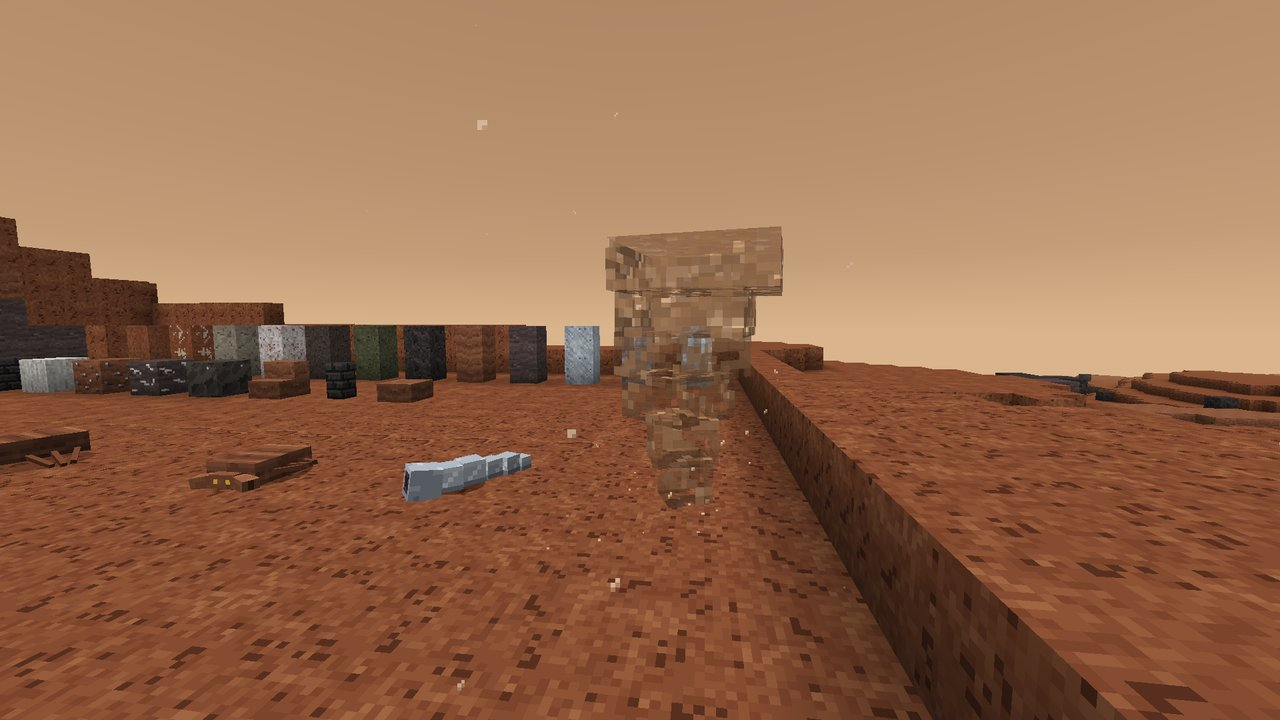
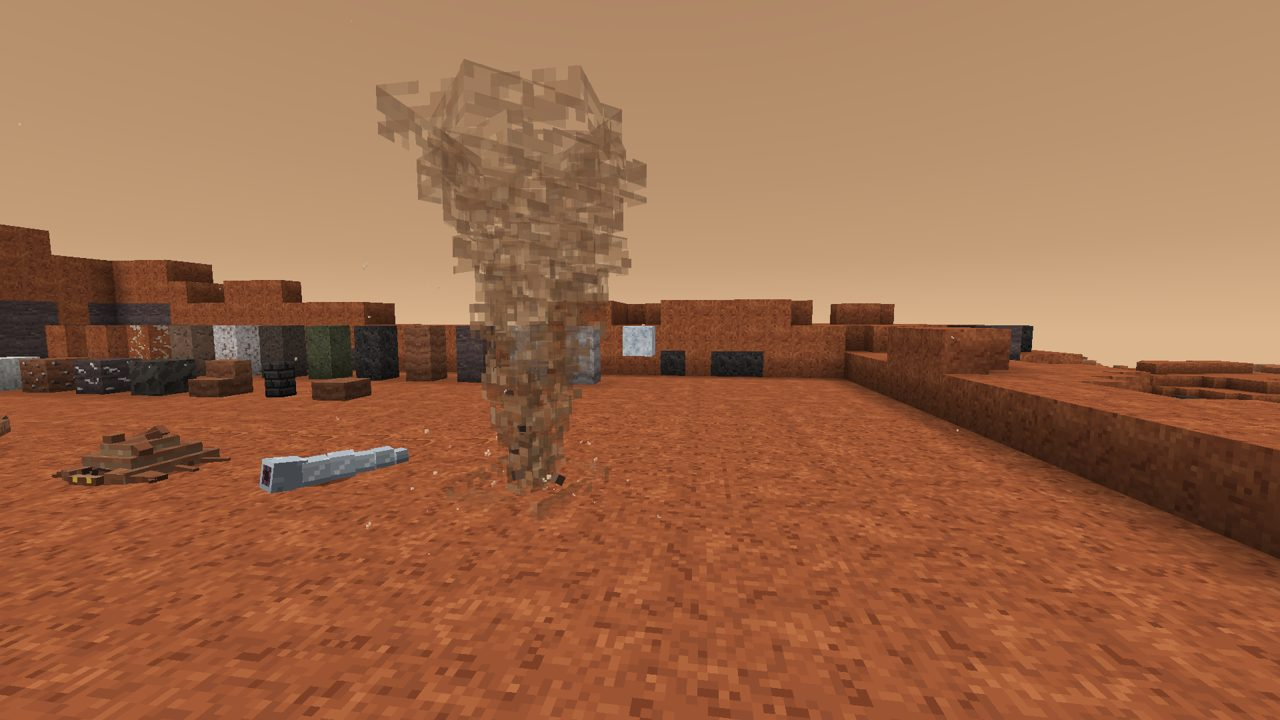
Dust Devil: hollow eight-sided dust curtains, core, skirt and pebbles
Eleven thin rings, each with a second one turned 45 degrees, built from side faces only so no flat lids show; dense and narrow at the foot, wide and thin at the top, swaying more the higher they go. A denser core spins up the lower half, a low dust skirt drags on the ground and pebbles whirl round the base. The Mars showcase stage is cleared wider so the whirl is not framed by a terrain wall.

diff --git a/src/main/java/com/pizzaparker07/spacebreaker/client/mars/DustDevilModel.java b/src/main/java/com/pizzaparker07/spacebreaker/client/mars/DustDevilModel.java
@@ -10,31 +10,65 @@ import net.minecraft.client.model.geom.builders.CubeListBuilder;
 import net.minecraft.client.model.geom.builders.LayerDefinition;
 import net.minecraft.client.model.geom.builders.MeshDefinition;
 import net.minecraft.client.model.geom.builders.PartDefinition;
+import net.minecraft.core.Direction;
 import net.minecraft.util.Mth;
 
-/** Dust Devil: a funnel of translucent dust rings, each spinning at its own speed and swaying, widest at the top. */
+import java.util.EnumSet;
+import java.util.Set;
+
+/**
+ * Dust Devil: a funnel of hollow, translucent dust curtains (eight-sided: each ring carries a second one turned 45
+ * degrees), narrow and dense at the foot, wide and thin at the top, each ring spinning at its own speed and the column
+ * swaying more the higher it goes. A denser core runs up the lower half, a low skirt of dust drags on the ground and a
+ * few pebbles whirl around the base. Only the side faces are built, so no flat lids show. UVs: mars_creatures.py.
+ */
 public class DustDevilModel extends HierarchicalModel<DustDevil> {
     public static final ModelLayerLocation LAYER = new ModelLayerLocation(Spacebreaker.id("dust_devil"), "main");
-    private static final int[] WIDTH = {5, 7, 9, 11, 13, 16};
+    private static final int TIERS = 11;
+    private static final float STEP = 3.6F;
+    private static final Set<Direction> SIDES = EnumSet.of(Direction.NORTH, Direction.SOUTH, Direction.EAST, Direction.WEST);
+    private static final float[][] PEBBLES = {{6F, -2F}, {-5.5F, -5F}, {1F, -8F}, {-2F, -3.5F}, {4F, -11F}};
     private final ModelPart root;
-    private final ModelPart[] tiers = new ModelPart[WIDTH.length];
+    private final ModelPart[] tiers = new ModelPart[TIERS];
+    private final ModelPart core;
+    private final ModelPart skirt;
+    private final ModelPart debris;
 
     public DustDevilModel(ModelPart root) {
         this.root = root;
-        for (int i = 0; i < WIDTH.length; i++) {
+        for (int i = 0; i < TIERS; i++) {
             tiers[i] = root.getChild("tier" + i);
         }
+        core = root.getChild("core");
+        skirt = root.getChild("skirt");
+        debris = root.getChild("debris");
+    }
+
+    static float width(int i) {
+        return 4F + i * 1.4F;
     }
 
     public static LayerDefinition createLayer() {
         MeshDefinition mesh = new MeshDefinition();
         PartDefinition root = mesh.getRoot();
-        for (int i = 0; i < WIDTH.length; i++) {
-            float w = WIDTH[i];
-            root.addOrReplaceChild("tier" + i, CubeListBuilder.create().texOffs(0, (i % 3) * 21).addBox(-w / 2, -5F, -w / 2, w, 5F, w),
-                    PartPose.offset(0F, 24F - i * 4.6F, 0F));
+        for (int i = 0; i < TIERS; i++) {
+            float w = width(i);
+            float w2 = w * 0.82F;
+            // texture rows fade from dense to thin downward, and a wider ring samples lower rows: the funnel thins upward
+            PartDefinition t = root.addOrReplaceChild("tier" + i, CubeListBuilder.create().texOffs(i * 5 % 40, 0).addBox(-w / 2, -4F, -w / 2, w, 4F, w, SIDES),
+                    PartPose.offset(0F, 24F - i * STEP, 0F));
+            t.addOrReplaceChild("turned", CubeListBuilder.create().texOffs(i * 7 % 40 + 3, 0).addBox(-w2 / 2, -4F, -w2 / 2, w2, 4F, w2, SIDES),
+                    PartPose.offsetAndRotation(0F, -0.5F, 0F, 0F, Mth.PI / 4F, 0F));
         }
-        return LayerDefinition.create(mesh, 64, 64);
+        root.addOrReplaceChild("core", CubeListBuilder.create().texOffs(64, 48).addBox(-1F, -14F, -1F, 2F, 14F, 2F, SIDES), PartPose.offset(0F, 24F, 0F));
+        root.addOrReplaceChild("skirt", CubeListBuilder.create().texOffs(0, 32).addBox(-7F, -2F, -7F, 14F, 2F, 14F, SIDES), PartPose.offset(0F, 24F, 0F));
+        PartDefinition debris = root.addOrReplaceChild("debris", CubeListBuilder.create(), PartPose.offset(0F, 24F, 0F));
+        for (int i = 0; i < PEBBLES.length; i++) {
+            float a = i * 2.4F;
+            debris.addOrReplaceChild("pebble" + i, CubeListBuilder.create().texOffs(100 + (i % 3) * 4, 40).addBox(-0.5F, -0.5F, -0.5F, 1F, 1F, 1F),
+                    PartPose.offsetAndRotation(Mth.cos(a) * PEBBLES[i][0], PEBBLES[i][1], Mth.sin(a) * PEBBLES[i][0], a, a * 0.7F, 0F));
+        }
+        return LayerDefinition.create(mesh, 128, 64);
     }
 
     @Override
@@ -44,11 +78,21 @@ public class DustDevilModel extends HierarchicalModel<DustDevil> {
 
     @Override
     public void setupAnim(DustDevil devil, float limbSwing, float limbSwingAmount, float ageInTicks, float netHeadYaw, float headPitch) {
-        for (int i = 0; i < tiers.length; i++) {
-            tiers[i].yRot = ageInTicks * (0.55F - i * 0.05F) * (i % 2 == 0 ? 1 : 1.15F);
-            float sway = i * 0.45F;
-            tiers[i].x = Mth.sin(ageInTicks * 0.13F + i * 0.7F) * sway;
-            tiers[i].z = Mth.cos(ageInTicks * 0.11F + i * 0.9F) * sway;
+        for (int i = 0; i < TIERS; i++) {
+            tiers[i].yRot = ageInTicks * (0.6F - i * 0.035F) * (i % 2 == 0 ? 1F : 1.12F);
+            float sway = i * i * 0.05F;
+            tiers[i].x = Mth.sin(ageInTicks * 0.13F + i * 0.35F) * sway;
+            tiers[i].z = Mth.cos(ageInTicks * 0.11F + i * 0.45F) * sway;
+        }
+        core.yRot = -ageInTicks * 0.8F;
+        skirt.yRot = ageInTicks * 0.35F;
+        float pulse = 1F + Mth.sin(ageInTicks * 0.2F) * 0.08F;
+        skirt.xScale = skirt.zScale = pulse;
+        debris.yRot = ageInTicks * 0.7F;
+        for (int i = 0; i < PEBBLES.length; i++) {
+            ModelPart p = debris.getChild("pebble" + i);
+            p.y = PEBBLES[i][1] + Mth.sin(ageInTicks * 0.3F + i * 1.7F) * 1.5F;
+            p.xRot = ageInTicks * (0.3F + i * 0.05F);
         }
     }
 }

diff --git a/tools/textures/modules/mars_creatures.py b/tools/textures/modules/mars_creatures.py
@@ -15,6 +15,7 @@ LURKER_BELLY = ramp('#2e2220', '#3d2e2a', '#4c3a35')
 EYE = ramp('#6a3c0c', '#c47a1c', '#f5c040', '#fff0b0')
 WORM = ramp('#5e6772', '#7a8591', '#98a2ad', '#b4bdc6', '#ced5db', '#e6eaee')
 MAW = ramp('#2a1c20', '#45303a', '#6a4a56')
+ROCKS = ramp('#3d2a22', '#5a3e30', '#7a5a46', '#2e2624')
 DUST = ramp('#6b4630', '#8a5c3e', '#a8744e', '#c08c62', '#d4a57c')
 
 
@@ -271,24 +272,41 @@ def worm():
 
 
 def dust_devil():
-    """Dust Devil: translucent swirling dust, streaks slanted by the spin, denser at the core."""
-    cv = Canvas(64, 64)
+    """Dust Devil: translucent dust streaked on a slant by the spin. Rows 0-24 feed the funnel rings and fade from
+    dense (the narrow foot samples the upper rows) to thin (the wide top samples the lower ones); rows 32-47 are the
+    faint ground skirt, rows 48-63 the dense core; a few opaque pebbles sit at (100, 40)."""
+    cv = Canvas(128, 64)
     rng = random.Random(81)
     n = clustered(64, 64, 82, passes=1)
+
+    def streak_px(x, y, density):
+        k = (x + y * 3 + int(n[y % 64][x % 64] * 7)) % 11
+        if k in (0, 1):
+            c, a = DUST[3], 215
+        elif k in (2, 3, 4):
+            c, a = DUST[2], 160
+        elif k == 6:
+            c, a = DUST[1], 120
+        else:
+            c, a = DUST[0], 0 if n[y % 64][x % 64] < 0.5 else 60
+        if rng.random() < 0.03:
+            c, a = DUST[4], 235
+        return (c[0], c[1], c[2], int(a * density))
+
     for y in range(64):
-        for x in range(64):
-            streak = (x + y * 2 + int(n[y][x] * 6)) % 9
-            if streak in (0, 1):
-                c, a = DUST[3], 210
-            elif streak in (2, 3):
-                c, a = DUST[2], 150
-            elif streak == 5:
-                c, a = DUST[1], 110
+        for x in range(128):
+            if y < 32:
+                density = max(0.55, 1.05 - max(0, y - 3) * 0.028)
+            elif y < 48:
+                density = 0.45
             else:
-                c, a = DUST[0], 0 if n[y][x] < 0.45 else 70
-            if rng.random() < 0.04:
-                c, a = DUST[4], 230
-            cv[x, y] = (c[0], c[1], c[2], a)
+                density = 1.15
+            px = streak_px(x, y, density)
+            cv[x, y] = (px[0], px[1], px[2], min(255, px[3]))
+    for x in range(100, 112):
+        for y in range(40, 42):
+            c = ROCKS[(x * 7 + y * 3) % len(ROCKS)]
+            cv[x, y] = (c[0], c[1], c[2], 255)
     return cv
 
 

diff --git a/src/testmod/java/com/pizzaparker07/spacebreaker/testmod/showcase/MarsScenario.java b/src/testmod/java/com/pizzaparker07/spacebreaker/testmod/showcase/MarsScenario.java
@@ -195,9 +195,9 @@ final class MarsScenario implements ShowcaseScenario {
 
     private void buildStage(ServerLevel level) {
         int y0 = (int) Math.floor(terrain.height(STAGE_X, STAGE_Z));
-        for (int x = STAGE_X - 13; x <= STAGE_X + 13; x++) {
+        for (int x = STAGE_X - 13; x <= STAGE_X + 19; x++) {
             for (int z = STAGE_Z - 6; z <= STAGE_Z + 16; z++) {
-                for (int y = y0 - 3; y <= y0 + 12; y++) {
+                for (int y = y0 - 3; y <= y0 + 20; y++) {
                     BlockState s = y < y0 ? MarsModule.MARTIAN_SANDSTONE.base().get().defaultBlockState()
                             : y == y0 ? MarsModule.MARTIAN_REGOLITH.get().defaultBlockState() : Blocks.AIR.defaultBlockState();
                     level.setBlock(new BlockPos(x, y, z), s, Block.UPDATE_CLIENTS);

diff --git a/docs/CONTENT.md b/docs/CONTENT.md
@@ -390,7 +390,7 @@ Her içerik paketi gerçek istemcide vitrin dünyasında fotoğraflanır; onayda
 | Gök cismi | Yaratıklar |
 |---|---|
 | Ay 🎨 | Regolit Kenesi (tozun altına saklanır, düşük yerçekiminde sıçrar), Yaşlı Regolit Kenesi (lav tüpü muhafızı), Toz Yüzücüsü (regolitin hemen altında süzülen pasif canlı, arkasında toz dalgaları), Keşif Dronu (karakol muhafızı, sersemletme atışı), Parıltı Böceği (pasif, ışıyan; fırçayla Parıltı Kabuğu verir → elektriksiz Parıltı Lambası, Ay gecesi için), Isı Emici (yalnız Ay gecesinde çıkar, lamba ışığında doğmaz; dokunuşu dondurur, akü ve jeneratörlerden enerji emip parlar, gün doğunca süblimleşir; ölünce emdiği enerji kızıltaşa döner) |
-| Mars 🎨 | Pas Böceği (demir oksit yer, tarafsız), Toz Şeytanı (fırtınalarda canlı hortum), Kanyon Pusucusu (kanyon duvarı gibi pas, devetüyü ve koyu damarlarla katmanlanmış basamaklı kabuk, tepede kaya yumruları; iki çeneli kısa baş ve kehribar gözler; eklemli kollarda iki parmaklı kıskaçlar; dizden yükseğe kıvrılan altı bacak; kapanınca bir kaya topağı), Taş Otlayan (alçak, zırhlı pasif otlayıcı: omuzlarda geniş, arkaya daralan gövde; böğürlerden taşan, kuyruğa doğru küçülen pas lekeli kaya plakaları; kısa boyun üstünde aşağı eğik kama baş ve kayadan kabuk kazıyan geniş yassı çene; yandan görünen altı kısa kalın bacak), Kutup Kurtçuğu |
+| Mars 🎨 | Pas Böceği (demir oksit yer, tarafsız), Toz Şeytanı (fırtınalarda canlı hortum: dibi dar ve yoğun, tepesi geniş ve seyrek, her biri kendi hızında dönen içi boş sekizgen toz perdeleri; alt yarıda yoğun çekirdek, yerde sürünen toz eteği, tabanda savrulan çakıllar), Kanyon Pusucusu (kanyon duvarı gibi pas, devetüyü ve koyu damarlarla katmanlanmış basamaklı kabuk, tepede kaya yumruları; iki çeneli kısa baş ve kehribar gözler; eklemli kollarda iki parmaklı kıskaçlar; dizden yükseğe kıvrılan altı bacak; kapanınca bir kaya topağı), Taş Otlayan (alçak, zırhlı pasif otlayıcı: omuzlarda geniş, arkaya daralan gövde; böğürlerden taşan, kuyruğa doğru küçülen pas lekeli kaya plakaları; kısa boyun üstünde aşağı eğik kama baş ve kayadan kabuk kazıyan geniş yassı çene; yandan görünen altı kısa kalın bacak), Kutup Kurtçuğu |
 | Venüs (bulutlar) 🎨 | Asit Vatozu (süzülen, tarafsız; kükürt ve deri bırakır), Bulut Medüzü (pasif; basamaklı yarı saydam kubbe çan, fırfırlı etek, içinde ışıyan sıcak çekirdek, iki fırfırlı ağız kolu ve farklı uzunlukta, iki eklemli sekiz dokunaç; Kaldırma Gazı Kesesi bırakır: kullanınca 30 sn yavaş düşüş) |
 | Merkür 🎨 | Alacakaranlık Sürüngeni (tehlikeli; grafit bırakır; gece-gündüz sınırında yaşar; güneş yükselince ya da gece çökünce toprağa gömülür), Oyuk Salyangozu (pasif, faydalı: oyuk tortusunu kazıyıp kükürt bırakır, kükürtle çoğalır) |
 | Io 🎨 | Kükürt Yengeci (ısıya dayanıklı, yakınına gelene saldırır) |
